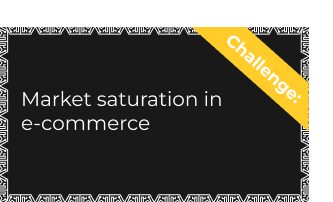
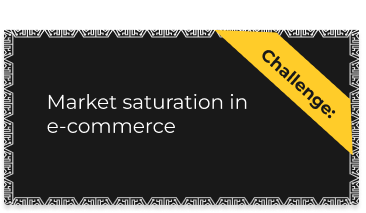
sasas

diff --git a/assets/css/styles2.css b/assets/css/styles2.css
@@ -1860,6 +1860,7 @@ margin-bottom: 30px;
   font-size: clamp(2rem, 4vw, 2.8rem);
   font-weight: 800;
   color: #fbbc04; /* yellow */
+  text-align: center !important;
 }
 
 .strategic-image img{
@@ -1881,3 +1882,55 @@ margin-bottom: 30px;
     font-size: clamp(1.5rem, 5vw, 2rem);
   }
 }
+
+.challenges-grid {
+  display: grid;
+  gap: 24px;
+}
+
+/* DESKTOP */
+@media (min-width: 992px) {
+  .challenges-grid {
+    grid-template-columns: repeat(4, 1fr);
+  }
+
+  /* Force visual rows */
+  .challenge { grid-row: 1; }
+  .solution  { grid-row: 2; }
+}
+
+/* TABLET */
+@media (min-width: 768px) and (max-width: 991px) {
+  .challenges-grid {
+    grid-template-columns: repeat(2, 1fr);
+  }
+}
+
+/* MOBILE */
+@media (max-width: 767px) {
+  .challenges-grid {
+    grid-template-columns: 1fr;
+  }
+}
+
+.caard {
+  height: 180px;
+  background-size: 100% 100%;
+  background-position: center;
+  border-radius: 12px;
+}
+.caard {
+  position: relative;
+  overflow: hidden;
+}
+
+
+.c1 { background-image: url("../images/merc-light/cad1.png"); }
+.s1 { background-image: url("../images/merc-light/cad5.png"); }
+.c2 { background-image: url("../images/merc-light/cad2.png"); }
+.s2 { background-image: url("../images/merc-light/cad6.png"); }
+.c3 { background-image: url("../images/merc-light/cad3.png"); }
+.s3 { background-image: url("../images/merc-light/cad7.png"); }
+.c4 { background-image: url("../images/merc-light/cad4.png"); }
+.s4 { background-image: url("../images/merc-light/cad8.png"); }
+

diff --git a/merchanity.html b/merchanity.html
@@ -105,7 +105,33 @@
     </div>
   </div>
 </section>
+
+<section class="challenges-section">
+  <h2 class="strategic-title">Challenges We Address</h2>
+
+  <div class="challenges-grid">
+
+    <!-- Pair 1 -->
+    <div class="caard challenge c1"></div>
+    <div class="caard solution s1"></div>
+
+    <!-- Pair 2 -->
+    <div class="caard challenge c2"></div>
+    <div class="caard solution s2"></div>
+
+    <!-- Pair 3 -->
+    <div class="caard challenge c3"></div>
+    <div class="caard solution s3"></div>
+
+    <!-- Pair 4 -->
+    <div class="caard challenge c4"></div>
+    <div class="caard solution s4"></div>
+
+  </div>
+</section>
+
     </section>
+
 
     
 
